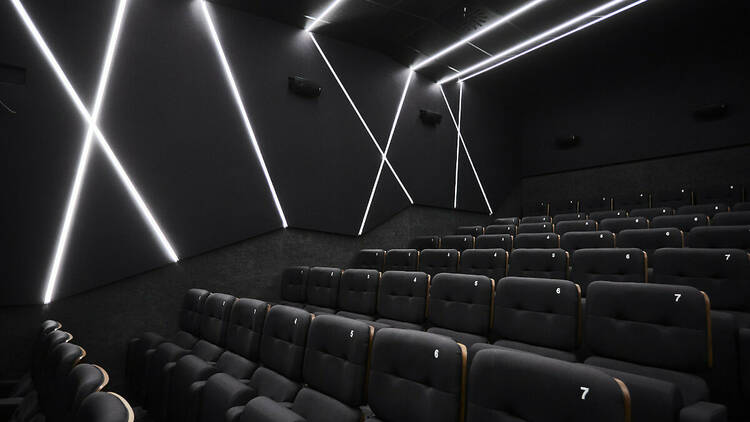
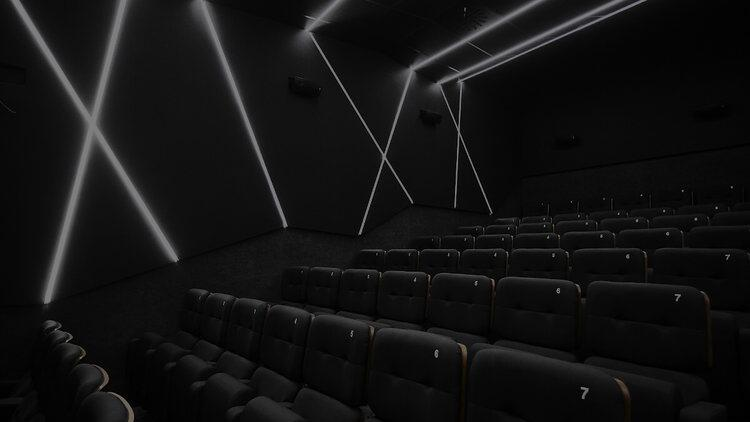
oscurecemos la imagen y centramos el texto

diff --git a/styles.scss b/styles.scss
@@ -22,7 +22,7 @@ body {
     justify-content: space-between;
     align-items: center;
     background-color: $background-color;
-    border-bottom: 1px solid #ffffff;
+    border-bottom: 1px solid $text-color;
     padding: 8px 10px;
 
     .logo img {
@@ -73,7 +73,7 @@ body {
     justify-content: center;
     align-items: center;
     padding: 10px 0;
-    border-top: 1px solid #ffffff;
+    border-top: 1px solid $text-color;
 
     .footer_links {
         display: flex;
@@ -124,11 +124,12 @@ body {
     top: 50%;
     left: 50%;
     transform: translate(-50%, -50%);
-    color: #ffffff;
+    color: $text-color;
     font-family: 'Cinzel Decorative', serif;
-    font-size: 22px;
+    font-size: 27px;
     text-align: center;
     z-index: 1;
+    margin-top: 56px;
 }
 
 // Mobile First

diff --git a/styles.css b/styles.css
@@ -106,9 +106,10 @@ body {
   transform: translate(-50%, -50%);
   color: #ffffff;
   font-family: "Cinzel Decorative", serif;
-  font-size: 22px;
+  font-size: 27px;
   text-align: center;
   z-index: 1;
+  margin-top: 56px;
 }
 
 @media (min-width: 768px) {
